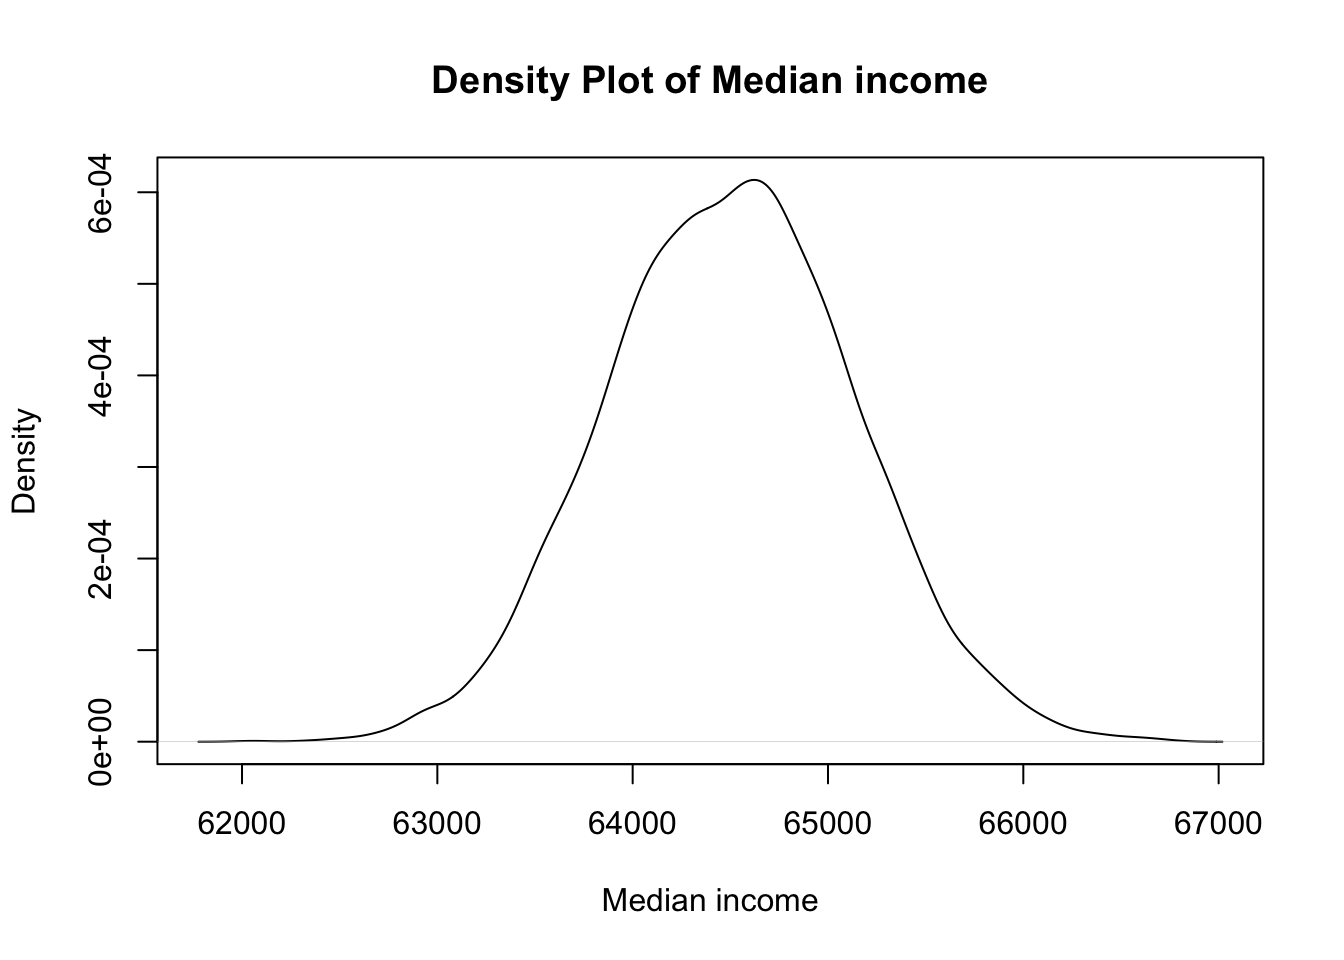
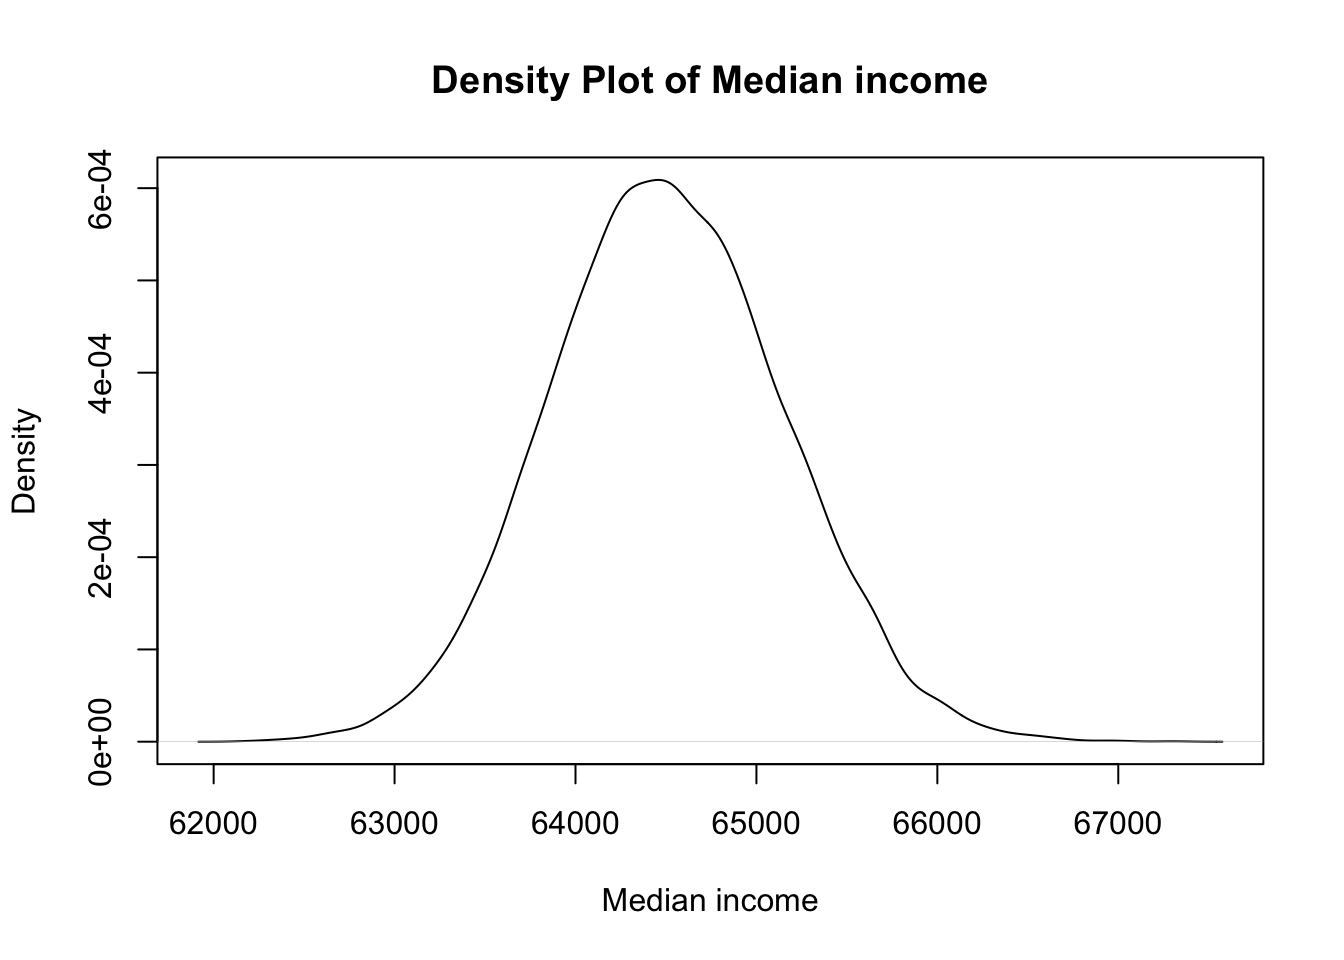
2311242

diff --git a/docs/Revision notes/Pathology/Bone tumors/tumor.html b/docs/Revision notes/Pathology/Bone tumors/tumor.html
@@ -1639,6 +1639,7 @@ cookieconsent.run({
   <li><a href="#metastases" id="toc-metastases" class="nav-link" data-scroll-target="#metastases">Metastases</a></li>
   <li><a href="#staging-table" id="toc-staging-table" class="nav-link" data-scroll-target="#staging-table">Staging Table</a></li>
   </ul></li>
+  <li><a href="#enneking-classification-of-benign-bone-tumours" id="toc-enneking-classification-of-benign-bone-tumours" class="nav-link" data-scroll-target="#enneking-classification-of-benign-bone-tumours">Enneking Classification of Benign Bone Tumours</a></li>
   <li><a href="#principles-of-tumour-biopsy" id="toc-principles-of-tumour-biopsy" class="nav-link" data-scroll-target="#principles-of-tumour-biopsy">Principles of Tumour Biopsy</a>
   <ul class="collapse">
   <li><a href="#biopsy-types" id="toc-biopsy-types" class="nav-link" data-scroll-target="#biopsy-types">Biopsy Types</a></li>
@@ -1759,42 +1760,42 @@ cookieconsent.run({
 </thead>
 <tbody>
 <tr class="odd">
-<td>1a</td>
+<td>Ia</td>
 <td>Low (G1)</td>
 <td>IC (T0)</td>
 <td>M0</td>
 <td>G1, T0, M0</td>
 </tr>
 <tr class="even">
-<td>1b</td>
+<td>Ib</td>
 <td>Low (G1)</td>
 <td>EC (T1)</td>
 <td>M0</td>
 <td>G1, T1, M0</td>
 </tr>
 <tr class="odd">
-<td>2a</td>
+<td>IIa</td>
 <td>High (G2)</td>
 <td>IC (T0)</td>
 <td>M0</td>
 <td>G2, T0, M0</td>
 </tr>
 <tr class="even">
-<td>2b</td>
+<td>IIb</td>
 <td>High (G2)</td>
 <td>EC (T1)</td>
 <td>M0</td>
 <td>G2, T1, M0</td>
 </tr>
 <tr class="odd">
-<td>3a</td>
+<td>IIIa</td>
 <td>Any</td>
 <td>IC (T0)</td>
 <td>M1</td>
 <td>G1/2, T0, M1</td>
 </tr>
 <tr class="even">
-<td>3b</td>
+<td>IIIb</td>
 <td>Any</td>
 <td>EC (T1)</td>
 <td>M1</td>
@@ -1803,12 +1804,40 @@ cookieconsent.run({
 </tbody>
 </table>
 <ul>
-<li>Stages 1 are all low grade</li>
-<li>Stage 2 are all high grade</li>
-<li>Stages 3 all have metastases</li>
+<li>Stages I are all low grade</li>
+<li>Stage II are all high grade</li>
+<li>Stages III all have metastases</li>
 </ul>
-<hr>
 </section>
+</section>
+<section id="enneking-classification-of-benign-bone-tumours" class="level2">
+<h2 class="anchored" data-anchor-id="enneking-classification-of-benign-bone-tumours">Enneking Classification of Benign Bone Tumours</h2>
+<table class="caption-top table">
+<thead>
+<tr class="header">
+<th>Stage</th>
+<th>Activity</th>
+<th>Examples</th>
+</tr>
+</thead>
+<tbody>
+<tr class="odd">
+<td>1</td>
+<td>Latent</td>
+<td>Osteoid Osteoma, Enchondroma, NOF</td>
+</tr>
+<tr class="even">
+<td>2</td>
+<td>Active</td>
+<td>Chondroblastoma, UBC</td>
+</tr>
+<tr class="odd">
+<td>3</td>
+<td>Aggressive</td>
+<td>GCT, ABC</td>
+</tr>
+</tbody>
+</table>
 </section>
 <section id="principles-of-tumour-biopsy" class="level2">
 <h2 class="anchored" data-anchor-id="principles-of-tumour-biopsy">Principles of Tumour Biopsy</h2>

diff --git a/docs/posts/montecarlo.html b/docs/posts/montecarlo.html
@@ -1872,7 +1872,7 @@ Income distribution is not normal
 </details>
 <div class="cell-output cell-output-stdout">
 <pre><code>     Min.   1st Qu.    Median      Mean   3rd Qu.      Max. 
-2.119e+05 2.965e+05 3.437e+05 3.005e+06 4.405e+05 2.390e+10 </code></pre>
+   213620    295031    342839    560040    434381 193255655 </code></pre>
 </div>
 <details open="" class="code-fold">
 <summary>Code</summary>
@@ -1880,7 +1880,7 @@ Income distribution is not normal
 </details>
 <div class="cell-output cell-output-stdout">
 <pre><code>   Min. 1st Qu.  Median    Mean 3rd Qu.    Max. 
-  62049   64064   64507   64501   64931   66747 </code></pre>
+  62192   64066   64494   64506   64939   67300 </code></pre>
 </div>
 <details open="" class="code-fold">
 <summary>Code</summary>
@@ -1888,7 +1888,7 @@ Income distribution is not normal
 </details>
 <div class="cell-output cell-output-stdout">
 <pre><code>     Min.   1st Qu.    Median      Mean   3rd Qu.      Max. 
-9.799e+05 3.356e+06 5.677e+06 2.712e+08 1.208e+07 2.390e+12 </code></pre>
+9.610e+05 3.337e+06 5.680e+06 2.655e+07 1.166e+07 1.929e+10 </code></pre>
 </div>
 </div>
 </section>

diff --git a/docs/Biomedical/Research Methodology/wrangling.html b/docs/Biomedical/Research Methodology/wrangling.html
@@ -3167,11 +3167,11 @@ Record
 <div class="cell-output cell-output-stdout">
 <pre><code>     age   sex  class
    &lt;int&gt; &lt;int&gt; &lt;fctr&gt;
-1:     1     1  child
-2:     2     0  child
-3:     3     1  child
+1:     1     0  child
+2:     2     1  child
+3:     3     0  child
 4:     4     1  child
-5:     5     0  child
+5:     5     1  child
 6:     6     0  child</code></pre>
 </div>
 </div>
@@ -3190,11 +3190,11 @@ Record
 <pre><code>Key: &lt;age&gt;
      age      0      1
    &lt;int&gt; &lt;fctr&gt; &lt;fctr&gt;
-1:     1   &lt;NA&gt;  child
-2:     2  child   &lt;NA&gt;
-3:     3   &lt;NA&gt;  child
+1:     1  child   &lt;NA&gt;
+2:     2   &lt;NA&gt;  child
+3:     3  child   &lt;NA&gt;
 4:     4   &lt;NA&gt;  child
-5:     5  child   &lt;NA&gt;
+5:     5   &lt;NA&gt;  child
 6:     6  child   &lt;NA&gt;</code></pre>
 </div>
 </div>

diff --git a/docs/Revision notes/Diagrams/action.html b/docs/Revision notes/Diagrams/action.html
@@ -2115,7 +2115,7 @@ window.document.addEventListener("DOMContentLoaded", function (event) {
 </div>
   </div>
 </footer>
-<script>var lightboxQuarto = GLightbox({"openEffect":"zoom","closeEffect":"zoom","selector":".lightbox","loop":false,"descPosition":"bottom"});
+<script>var lightboxQuarto = GLightbox({"closeEffect":"zoom","selector":".lightbox","loop":false,"descPosition":"bottom","openEffect":"zoom"});
 (function() {
   let previousOnload = window.onload;
   window.onload = () => {

diff --git a/docs/Revision notes/Diagrams/artcart.html b/docs/Revision notes/Diagrams/artcart.html
@@ -2106,7 +2106,7 @@ window.document.addEventListener("DOMContentLoaded", function (event) {
 </div>
   </div>
 </footer>
-<script>var lightboxQuarto = GLightbox({"descPosition":"bottom","loop":false,"closeEffect":"zoom","openEffect":"zoom","selector":".lightbox"});
+<script>var lightboxQuarto = GLightbox({"loop":false,"closeEffect":"zoom","selector":".lightbox","descPosition":"bottom","openEffect":"zoom"});
 (function() {
   let previousOnload = window.onload;
   window.onload = () => {

diff --git a/docs/Revision notes/Diagrams/cemnt.html b/docs/Revision notes/Diagrams/cemnt.html
@@ -2106,7 +2106,7 @@ window.document.addEventListener("DOMContentLoaded", function (event) {
 </div>
   </div>
 </footer>
-<script>var lightboxQuarto = GLightbox({"closeEffect":"zoom","selector":".lightbox","loop":false,"descPosition":"bottom","openEffect":"zoom"});
+<script>var lightboxQuarto = GLightbox({"descPosition":"bottom","closeEffect":"zoom","selector":".lightbox","loop":false,"openEffect":"zoom"});
 (function() {
   let previousOnload = window.onload;
   window.onload = () => {

diff --git a/docs/Revision notes/Diagrams/ct.html b/docs/Revision notes/Diagrams/ct.html
@@ -2116,7 +2116,7 @@ window.document.addEventListener("DOMContentLoaded", function (event) {
 </div>
   </div>
 </footer>
-<script>var lightboxQuarto = GLightbox({"selector":".lightbox","closeEffect":"zoom","loop":false,"descPosition":"bottom","openEffect":"zoom"});
+<script>var lightboxQuarto = GLightbox({"descPosition":"bottom","selector":".lightbox","openEffect":"zoom","closeEffect":"zoom","loop":false});
 (function() {
   let previousOnload = window.onload;
   window.onload = () => {

diff --git a/docs/Revision notes/Diagrams/fmrbld.html b/docs/Revision notes/Diagrams/fmrbld.html
@@ -2115,7 +2115,7 @@ window.document.addEventListener("DOMContentLoaded", function (event) {
 </div>
   </div>
 </footer>
-<script>var lightboxQuarto = GLightbox({"closeEffect":"zoom","openEffect":"zoom","selector":".lightbox","descPosition":"bottom","loop":false});
+<script>var lightboxQuarto = GLightbox({"openEffect":"zoom","closeEffect":"zoom","selector":".lightbox","descPosition":"bottom","loop":false});
 (function() {
   let previousOnload = window.onload;
   window.onload = () => {

diff --git a/docs/Revision notes/Diagrams/motion.html b/docs/Revision notes/Diagrams/motion.html
@@ -2106,7 +2106,7 @@ window.document.addEventListener("DOMContentLoaded", function (event) {
 </div>
   </div>
 </footer>
-<script>var lightboxQuarto = GLightbox({"selector":".lightbox","closeEffect":"zoom","openEffect":"zoom","loop":false,"descPosition":"bottom"});
+<script>var lightboxQuarto = GLightbox({"loop":false,"openEffect":"zoom","closeEffect":"zoom","selector":".lightbox","descPosition":"bottom"});
 (function() {
   let previousOnload = window.onload;
   window.onload = () => {

diff --git a/docs/Revision notes/Diagrams/nerve.html b/docs/Revision notes/Diagrams/nerve.html
@@ -2106,7 +2106,7 @@ window.document.addEventListener("DOMContentLoaded", function (event) {
 </div>
   </div>
 </footer>
-<script>var lightboxQuarto = GLightbox({"selector":".lightbox","descPosition":"bottom","closeEffect":"zoom","openEffect":"zoom","loop":false});
+<script>var lightboxQuarto = GLightbox({"loop":false,"descPosition":"bottom","openEffect":"zoom","closeEffect":"zoom","selector":".lightbox"});
 (function() {
   let previousOnload = window.onload;
   window.onload = () => {

diff --git a/docs/Revision notes/Diagrams/plxs.html b/docs/Revision notes/Diagrams/plxs.html
@@ -2106,7 +2106,7 @@ window.document.addEventListener("DOMContentLoaded", function (event) {
 </div>
   </div>
 </footer>
-<script>var lightboxQuarto = GLightbox({"openEffect":"zoom","selector":".lightbox","descPosition":"bottom","loop":false,"closeEffect":"zoom"});
+<script>var lightboxQuarto = GLightbox({"closeEffect":"zoom","loop":false,"selector":".lightbox","descPosition":"bottom","openEffect":"zoom"});
 (function() {
   let previousOnload = window.onload;
   window.onload = () => {

diff --git a/docs/Revision notes/Diagrams/spnlcrd.html b/docs/Revision notes/Diagrams/spnlcrd.html
@@ -2106,7 +2106,7 @@ window.document.addEventListener("DOMContentLoaded", function (event) {
 </div>
   </div>
 </footer>
-<script>var lightboxQuarto = GLightbox({"openEffect":"zoom","selector":".lightbox","closeEffect":"zoom","descPosition":"bottom","loop":false});
+<script>var lightboxQuarto = GLightbox({"closeEffect":"zoom","descPosition":"bottom","selector":".lightbox","loop":false,"openEffect":"zoom"});
 (function() {
   let previousOnload = window.onload;
   window.onload = () => {
